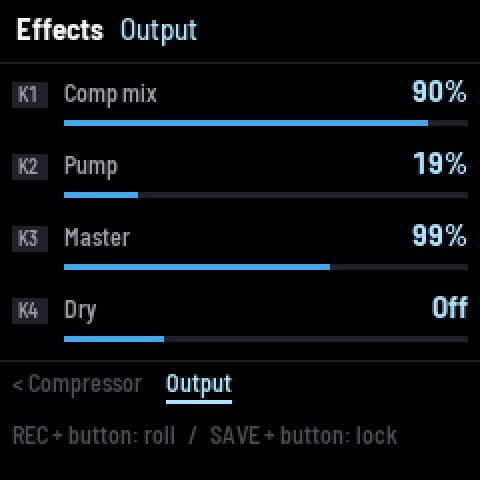
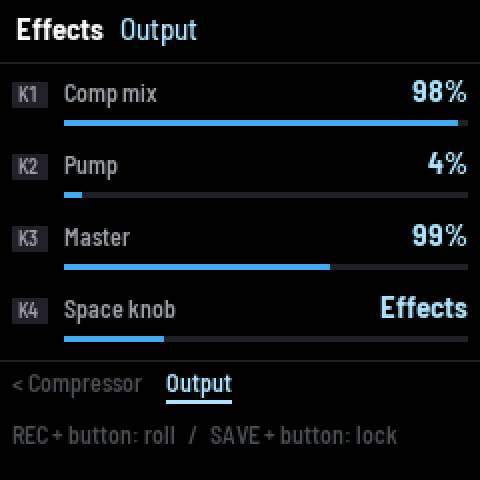
Dry: the effects set to nothing instead of switched off, so they stay usable; each effect set so is not run (filter wide open, delay and reverb once their tails die); Dry switch is now the Space knob's mode; a tap from Dry to wet rolls the effects
Claude-Session: https://claude.ai/code/session_01YUBeZk2LCmQJcKyVBG9aft

diff --git a/dsp/fx.c b/dsp/fx.c
@@ -36,7 +36,7 @@ static const float DL_TAPS[5] = {1.f, .75f, 2.f/3, .5f, .8f};
 static struct {
     float fz_g1, fz_mix, fz_tone, fz_hp, fz_lp, fz_hp2, fz_tl, fz_th;
     float m_a1, m_a2, m_a3, m_k, m_wl, m_wb, m_wh, m_wd;   /* (m_wd: the dry signal's share, while Dry fades in or out) */
-    float fxw; int fx_on;                           /* (1.0.6) the effects' share; they run (not Dry, or fading) */
+    int fx_on, t_on;                               /* (1.0.6) the filter runs (fxw > 0); the delay and the reverb run */
     float d_send, d_fb, d_tone_a, d_D_tgt, d_rate_tgt, d_tap, d_aa;
     float r_dry, r_send, r_glo[8], r_ghi[8], r_pre, r_mod, r_to, r_out, r_lp;
     int   r_prei;                                   /* the pre-delay in the reverb's steps */
@@ -45,6 +45,7 @@ static struct {
     float master;
 } C;
 static float g_drate = 1.f;
+static int32_t g_tq; static uint8_t g_ton;   /* (1.0.6) the delay and the reverb run; ticks their tails ring on with nothing sent */
 static int g_rint[8];
 static float g_rf0[8], g_rf1[8];   /* a moving line's length at the block's start and end (its reads between samples) */
 static uint8_t g_rmov;             /* which lines are moving (a bit each) */
@@ -55,19 +56,19 @@ void fx_init(Fx *f) {
     memset(f, 0, sizeof *f);
     f->lim_g = f->lim_tgt = 1.f;
     for (int i = 0; i < 8; i++) f->rlen[i] = f->rlen_tgt[i] = RV_BASE[i] * .7f;
-    f->dD = 4000.f; g_drate = 1.f;
+    f->dD = 4000.f; g_drate = 1.f; g_ton = 0; g_tq = 0;
     f->cgain = 1.f;
     f->fxw = 1.f;
 }
-/* (1.0.6) the effects back from Dry: what the delay, the reverb and the filter held when they stopped is let go, so
+/* (1.0.6) the delay and the reverb back after they stopped: what they held is let go, so
    they start from silence, not from a tail minutes old (from the flash: it is rare) */
+int fx_tails_on(void) { return g_ton; }   /* (for the tests) */
 static void fx_clear(Fx *f) {
     memset(f->dbuf, 0, sizeof f->dbuf); memset(f->rbuf, 0, sizeof f->rbuf); memset(f->ap_buf, 0, sizeof f->ap_buf);
-    memset(f->pre, 0, sizeof f->pre); memset(f->morph, 0, sizeof f->morph);
+    memset(f->pre, 0, sizeof f->pre);
     memset(f->rv_h, 0, sizeof f->rv_h); f->rv_o[0] = f->rv_o[1] = 0.f;
     f->dlp1 = f->dlp2 = f->dout_lp[0] = f->dout_lp[1] = f->dfb_hp = 0.f;
     for (int i = 0; i < 8; i++) f->rlp[i] = 0.f;
-    f->dc_x[0] = f->dc_x[1] = f->dc_y[0] = f->dc_y[1] = 0.f;
 }
 
 /* fx_update's rarer half, from the flash: the compressor's coefficients and Dry's fade (1.0.6) */
@@ -97,17 +98,26 @@ static void fx_update_far(Synth *s) {
     C.c_pump = pnorm(s, P_CMP_PUMP);
     C.master = pval(s, P_MASTER);
 
-    /* Dry: the fuzz, the filter, the delay and the reverb out (the compressor and the limiter stay), faded
-       over ~30 ms each way; out, they are not run at all */
-    {   float w = f->fxw, tg = pint(s, P_DRY) ? 0.f : 1.f;
-        if (tg > w) { if (w <= 0.f) DSP_FAR(fx_clear)(f); w += .05f; if (w > 1.f) w = 1.f; }
+    /* (1.0.6) an effect set where it does nothing is not run (a Dry roll sets them so; turned up, they run as ever):
+       the filter wide open, low-pass, no resonance - it glides out and back over ~30 ms (fxw), and starts again from
+       silence; the delay and the reverb with nothing sent (nor frozen) - once their tails have died away, then they
+       start from silence when something is sent again. (The fuzz at no mix: never was run.) */
+    {   float w = f->fxw, tg = pnorm(s, P_FLT_CUT) >= .995f && pnorm(s, P_FLT_RES) <= .005f && pnorm(s, P_FLT_MORPH) <= .005f ? 0.f : 1.f;
+        if (tg > w) { if (w <= 0.f) memset(f->morph, 0, sizeof f->morph); w += .05f; if (w > 1.f) w = 1.f; }
         else if (tg < w) { w -= .05f; if (w < 0.f) w = 0.f; }
         f->fxw = w;
-        C.fxw = w; C.fx_on = w > 0.f;
-        C.fz_mix *= w; C.d_send *= w; C.r_send *= w; C.r_to *= w;
-        C.r_dry = C.r_dry * w + (1.f - w);
+        C.fx_on = w > 0.f;
         C.m_wl *= w; C.m_wb *= w; C.m_wh *= w; C.m_wd = 1.f - w;
     }
+    if (C.d_send > .001f || C.r_send > .001f || C.r_freeze) {
+        if (!g_ton) { DSP_FAR(fx_clear)(f); g_ton = 1; }
+        /* how long the tails ring: the delay's repeats down 90 dB (and into the reverb), the reverb's to 90 dB */
+        float fb = C.d_fb < .01f ? .01f : C.d_fb, db = -6.0206f * flog2(fb);   /* (dB lost a repeat) */
+        float sec = tsec * (1.f + 90.f / (db > 1.f ? db : 1.f)) + 1.5f * pval(s, P_RV_DECAY) + C.r_pre / SR + .2f;
+        if (sec > 120.f) sec = 120.f;
+        g_tq = (int32_t)(sec * SR / (float)SUB);
+    } else if (g_ton && --g_tq <= 0) g_ton = 0;
+    C.t_on = g_ton;
 
 }
 
@@ -312,7 +322,7 @@ DSP_RAM void fx_process(Synth *s, float *L, float *R, int n, float trig_env) {
         }
     }
 
-    /* 2. the filter (LP / BP / HP blend), per channel over the block (Dry: not run; fading: the dry signal's share) */
+    /* 2. the filter (LP / BP / HP blend), per channel over the block (wide open: not run; gliding: the dry signal's share) */
     if (C.fx_on) for (int c = 0; c < 2; c++) {
         float *X = c ? R : L, i1 = f->morph[c].ic1, i2 = f->morph[c].ic2;
         float a1 = C.m_a1, a2 = C.m_a2, a3 = C.m_a3, k = C.m_k, wl = C.m_wl, wb = C.m_wb * C.m_k, wh = C.m_wh, wd = C.m_wd;
@@ -330,7 +340,7 @@ DSP_RAM void fx_process(Synth *s, float *L, float *R, int n, float trig_env) {
         float gd = gds[t];
         float x[2] = {L[t], R[t]};
         float yl = 0.f, yr = 0.f, rl = 0.f, rr = 0.f;
-        if (C.fx_on) {                                           /* (Dry: the delay and the reverb not run) */
+        if (C.t_on) {                                            /* (nothing sent, the tails gone: not run) */
 
         /* 4a. BBD delay */
         f->dD += 0.0004f * (C.d_D_tgt - f->dD);
@@ -365,7 +375,7 @@ DSP_RAM void fx_process(Synth *s, float *L, float *R, int n, float trig_env) {
             float nl, nr; rv_step(f, u, (float)(t + 1) * (1.f / SUB), gd, AP_LEN, &nl, &nr);
             rl = .5f * (f->rv_o[0] + nl); rr = .5f * (f->rv_o[1] + nr); f->rv_o[0] = nl; f->rv_o[1] = nr;
         } else { rl = f->rv_o[0]; rr = f->rv_o[1]; }
-        yl = (yl + rl) * C.fxw; yr = (yr + rr) * C.fxw;          /* (the tails fade with Dry too) */
+        yl += rl; yr += rr;
         }
 
         float oL = (x[0] * C.r_dry + yl) * DRIVE, oR = (x[1] * C.r_dry + yr) * DRIVE;

diff --git a/dsp/params.c b/dsp/params.c
@@ -209,6 +209,8 @@ static int mod_loop(int src, int dst) {
     return ((src == SRC_MOT1 || src == SRC_TRIG || src == SRC_PATHX || src == SRC_PATHY) && g1) || (src == SRC_MOT2 && g2);
 }
 static uint8_t g_roll_dry;                    /* the roll makes a Dry patch (1.0.6): no route to the effects */
+static uint8_t g_dry_set;                     /* (1.0.6) this roll decided Dry (and so sets the effects to nothing) */
+static uint8_t g_fx_wake;                     /* (1.0.6) a sound roll from a Dry patch to a wet one: its effects rolled too */
 static uint8_t g_lock_fx;       /* the player's own locks on the effects and the knobs (not the roll's
                                                  mask: a sound roll leaves the effects alone, yet decides Dry) */
 static int fx_off(int id) {                   /* an effect a Dry patch has not got (the compressor it has) */
@@ -725,7 +727,7 @@ static void apply_style(Synth *s) {
         }
         TR(s, P_LFO_COUPLE, 0.f, .3f);
     }
-    if (!s->locked[SEC_FX]) {
+    if (!s->locked[SEC_FX] || g_fx_wake) {
         /* fuzz: Groove, Machine and Breaks often, Cosmic sometimes, a touch in Tongue, rarely Ambient */
         float pfz = (MA || BR) ? .4f : G ? .3f : C ? .2f : T ? .08f : .04f;
         if (frand(r) < pfz) { TR(s, P_FZ_MIX, .1f, (G || MA || BR) ? .5f : .25f); TR(s, P_FZ_SUSTAIN, .1f, .7f); TR(s, P_FZ_TONE, .25f, .7f); }
@@ -897,6 +899,12 @@ static void roll_finish(Synth *s) {
         int st = s->style % NUM_STYLES; float u = frand(r);
         s->target[P_DR_NOTES] = u < FB[st][0] ? 1.f : u < FB[st][0] + FB[st][1] ? .3f + .5f * frand(r) : 0.f;
     }
+    if (g_dry_set) {                           /* (1.0.6) Dry: the effects set to do nothing, so not run (fx.c); their
+                                                  other settings rolled as ever, for when they are turned up */
+        float *t = s->target;
+        t[P_FZ_MIX] = t[P_DL_SEND] = t[P_RV_SEND] = 0.f; t[P_RV_FREEZE] = disc(P_RV_FREEZE, 0);
+        t[P_FLT_CUT] = 1.f; t[P_FLT_RES] = t[P_FLT_MORPH] = 0.f;
+    }
     if (dry && !s->locked[SEC_DRUMS]) dry_kit(s);
     if (dry && !s->locked[SEC_LFO])            /* (the style's routes to the effects: elsewhere) */
         for (int k = 0; k < MOD_SLOTS; k++) {
@@ -932,6 +940,7 @@ void params_roll_part(Synth *s, int part, uint32_t seed) {
         return;
     }
     s->rng = seed * 2654435761u + 1u;
+    int was_dry = s->target[P_DRY] > .5f;
     for (int i = 0; i < NUM_PARAMS; i++) {
         const ParamMeta *m = &g_param_meta[i];
         if (s->locked[m->section] || i == P_TEMPER) continue;   /* (locked: left as it is; Temper is the player's: never rolled) */
@@ -939,7 +948,22 @@ void params_roll_part(Synth *s, int part, uint32_t seed) {
         if (m->rlo == 0 && m->rhi == 0) s->target[i] = m->curve == CURVE_DISC ? disc(i, 0) : 0;
     }
     float *t = s->target;
-    if (!s->locked[SEC_FX]) {
+    /* (1.0.6) a quarter of the rolls Dry, in every style: any roll of the sound (a tap of REC too), unless the effects
+       are locked. A Dry roll sets the effects to do nothing (roll_finish: they stay usable, turned up); a tap from a
+       Dry patch to a wet one rolls them too, as they were off */
+    g_dry_set = 0;
+    if (!g_lock_fx && (!s->locked[SEC_FX] || !s->locked[SEC_VOICE1] || !s->locked[SEC_DRUMS])) {
+        t[P_DRY] = disc(P_DRY, frand(r) < .25f);
+        g_dry_set = (uint8_t)(t[P_DRY] > .5f);
+    }
+    g_roll_dry = (uint8_t)(t[P_DRY] > .5f);
+    g_fx_wake = (uint8_t)(!g_lock_fx && s->locked[SEC_FX] && was_dry && !g_roll_dry);
+    if (g_fx_wake) for (int i = P_FZ_SUSTAIN; i <= P_DL_TO_RV; i++) {
+        const ParamMeta *m = &g_param_meta[i];
+        t[i] = (m->rlo == m->rhi && m->curve != CURVE_DISC) ? m->rlo : roll_one(m, r);
+        if (m->rlo == 0 && m->rhi == 0) t[i] = m->curve == CURVE_DISC ? disc(i, 0) : 0;
+    }
+    if (!s->locked[SEC_FX] || g_fx_wake) {
         /* filter type and cutoff are rolled together so the voice never vanishes */
         float u = frand(r);
         if (u < .75f) { t[P_FLT_MORPH] = .08f * frand(r); }
@@ -948,11 +972,6 @@ void params_roll_part(Synth *s, int part, uint32_t seed) {
         if (frand(r) < .85f) t[P_RV_TUNED] = disc(P_RV_TUNED, 0);
         if (t[P_DL_FB] > .65f && t[P_DL_SEND] > .4f) t[P_DL_SEND] = .25f;
     }
-    /* (1.0.6) a quarter of the rolls Dry, in every style: any roll of the sound (a tap of REC too, which keeps the
-       effects' settings: Dry only takes them out), unless the effects are locked */
-    if (!g_lock_fx && (!s->locked[SEC_FX] || !s->locked[SEC_VOICE1] || !s->locked[SEC_DRUMS]))
-        t[P_DRY] = disc(P_DRY, frand(r) < .25f);
-    g_roll_dry = (uint8_t)(t[P_DRY] > .5f);
     roll_together(s);
     params_roll_mod(s);
 }

diff --git a/app.c b/app.c
@@ -876,7 +876,7 @@ static void param_name(int id, char *b, int max)
     case P_DL_TO_RV: n = "Delay into reverb"; break;
     case P_LFO_COUPLE: n = "LFO coupling"; break;
     case P_RV_FREEZE: n = "Reverb freeze"; break;
-    case P_DRY: n = "Dry"; break;
+    case P_DRY: n = "Space knob"; break;
     case P_DR_NOTES: n = "Drum notes"; break;
     case P_FLT_MORPH: n = "Filter type"; break;
     case P_FLT_CUT: n = "Filter cutoff"; break;
@@ -990,7 +990,7 @@ static void value_text(int id, float n, char *b, int max)
         case P_RH_SELRATE: text_cpy(t, selrate_name(i), sizeof t); break;
         case P_RH_COUNT: int_text(i + 2, t); text_cat(t, " events"); break;
         case P_RV_FREEZE: case P_RV_TUNED: text_cpy(t, i ? "On" : "Off", sizeof t); break;
-        case P_DRY: text_cpy(t, i ? "On: Shape" : "Off", sizeof t); break;
+        case P_DRY: text_cpy(t, i ? "Shape" : "Effects", sizeof t); break;
         case P_LFO1_SHAPE: case P_LFO2_SHAPE: case P_LFO3_SHAPE: case P_LFO4_SHAPE: case P_LFO5_SHAPE:
         case P_LFO6_SHAPE: text_cpy(t, PICK(LFO_N, i), sizeof t); break;
         case P_LFO1_SYNC: case P_LFO2_SYNC: case P_LFO3_SYNC: case P_LFO4_SYNC: case P_LFO5_SYNC:

diff --git a/dsp/synth.h b/dsp/synth.h
@@ -435,7 +435,7 @@ typedef struct {
     float odc_x[2], odc_y[2];
     float rv_h[4], rv_o[2]; int rv_ph;   /* the half-rate reverb: its input low-pass's state (two biquads), its last
                                             output, which sample */
-    float fxw;                /* (1.0.6) the effects in: 1 wet, 0 Dry (gliding ~30 ms between); at 0 they are not run */
+    float fxw;                /* (1.0.6) the filter in: 1, or 0 set wide open (gliding ~30 ms between); at 0 it is not run */
 } Fx;
 
 /* ------------------------------------------------------------------ */
@@ -672,6 +672,7 @@ const char *drum_layer_name(int v);
 void lfo_tick(Synth *s, float dt);
 void mod_apply(Synth *s);
 
+int  fx_tails_on(void);         /* (1.0.6) the delay and the reverb are running */
 void fx_init(Fx *f);
 void fx_update(Synth *s);
 void fx_process(Synth *s, float *L, float *R, int n, float trig_env);

diff --git a/docs/MANUAL.md b/docs/MANUAL.md
@@ -184,7 +184,7 @@ what the buttons do on this page.
 | --- | --- |
 | PLAY (tap) | start / stop the generators and the rhythm (the keys always play) |
 | PLAY (hold) | the performance keys appear on the white keys (see below) |
-| REC (tap) | roll the sound: both voices, both layers, the rhythm and the drums (never the scale, effects or knobs; a quarter of the time it makes the patch Dry, the effects' settings kept for when it is wet again) |
+| REC (tap) | roll the sound: both voices, both layers, the rhythm and the drums (never the scale, effects or knobs; a quarter of the time it makes the patch Dry, which sets the effects to nothing; from a Dry patch to a wet one it rolls the effects too, unless they are locked) |
 | REC (double tap) | roll everything except the scale |
 | REC (hold 0.7 s) | mutate: a small nudge to every continuous setting |
 | REC + a page button | roll only that page (REC + FX or REC + LFO: the matrix, the LFOs and the effects together) |
@@ -237,9 +237,11 @@ the knob as you turn it.
 | **Space** | the effects | filter cutoff and resonance, reverb mix, size, decay and damp, delay send and feedback |
 | **Motion** | both layers, the path view and the LFOs, the patterns' rotations and fills, the layers' levels (±3 dB at most, one up as the other goes down: which layer leads) | layer 1's Rate and Reach, the layers' levels; in a genre style, often the hat's and the fourth part's rotation (by 8ths) |
 
-**A Dry patch** (FX → Output, K4; a quarter of all rolls) has no fuzz, filter, delay or reverb: they are not run at all,
-which also leaves the FM-1 more headroom. Their settings are kept, so turning Dry off brings them back (fading in
-and out over about 30 ms). Space becomes **Shape**: the room the instrument makes itself instead of an effect's.
+**A Dry patch** (a quarter of all rolls) starts with its effects doing nothing: no fuzz, the filter wide open, nothing
+sent to the delay or the reverb. An effect set so is not run at all, which leaves the FM-1 more headroom (the delay and
+the reverb stop once their tails have rung out; the filter glides out over about 30 ms). They are still there: turn one
+up on its FX page and it runs as in any patch. The Space knob becomes **Shape** (FX → Output, K4, **Space knob**:
+Shape or Effects): the room the instrument makes itself instead of an effect's.
 
 | Knob (Dry) | Part of the instrument | Always on its path |
 | --- | --- | --- |
@@ -773,7 +775,7 @@ The chain: **fuzz → filter → delay and reverb sends → compressor → maste
 | **Output** | K1 | **Comp mix** | parallel compression: dry … fully compressed |
 | | K2 | **Pump** | the compressor ducks on layer 1's onsets |
 | | K3 | **Master** | the output level (0–150 %) |
-| | K4 | **Dry** | **On**: no fuzz, filter, delay or reverb (not run); the Space knob is **Shape**. See [The performance knobs](#the-performance-knobs) |
+| | K4 | **Space knob** | **Effects**: the third performance knob is Space; **Shape**: it is Shape (a Dry patch's). See [The performance knobs](#the-performance-knobs) |
 
 After the master, a look-ahead **limiter** holds peaks at −0.5 dBFS, and a soft clip catches anything that still gets
 past. Patches come out loud (about −14 dBFS on average) without distorting.

diff --git a/README.md b/README.md
@@ -44,8 +44,8 @@ and every partial is in tune with its note (its harmonics, and undertones below 
   listens: the layers' notes (started and stopped at a floor under each layer's peak, at most 24 new notes a second a
   layer by default), the keys, the drums (a General MIDI kit, or pitched), the knobs as CC 21–24 and the clock.
   **MPE** sends each note on its own channel with the pitch bend that puts it at its exact just pitch. Latch and
-  Panic no longer leave notes hanging on the receiver. **Dry patches**: a quarter of the rolls (or FX → Output → Dry)
-  have no fuzz, filter, delay or reverb, not run at all (about 40 % less work in the simulator), and the Space knob becomes **Shape**:
+  Panic no longer leave notes hanging on the receiver. **Dry patches**: a quarter of the rolls
+  start with the fuzz, filter, delay and reverb set to nothing, and so not run (about 40 % less work in the simulator; turned up, they run as ever), and the Space knob becomes **Shape** (FX → Output → Space knob):
   the drums' envelopes as a kit (the kick and tom bloom, the snare and hat stay tight), the layers' contour, the
   voices' pluck, width and spin, the duck and the compressor's attack, over a wide range with the drums' loudness held roughly steady; Pump goes to Groove. The drums' levels ride Groove
   (±4 dB) and the layers' levels Motion (±3 dB, opposite) in every patch. **Drum notes, Follow … Fixed** (on Groove): from the drums riding the motion's notes
